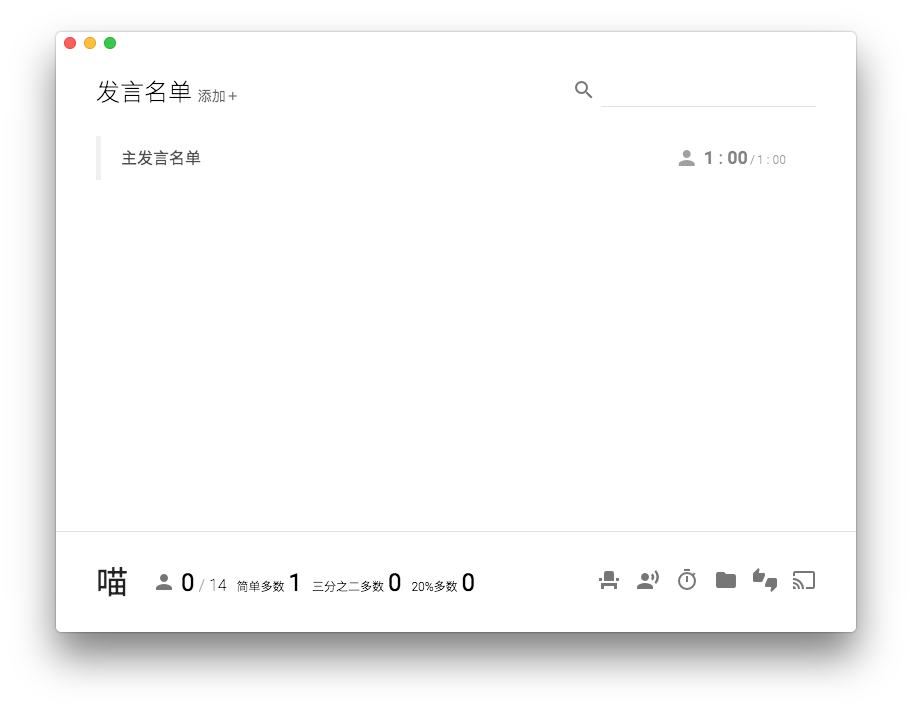
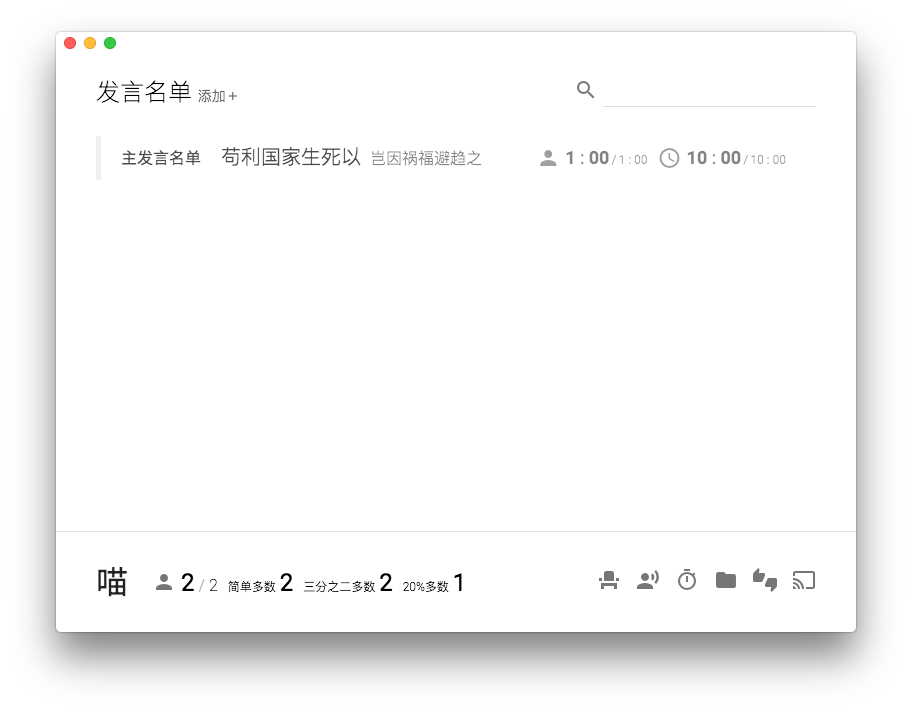
Updated console lite guide to v1.0.1

diff --git a/console-lite/operation.md b/console-lite/operation.md
@@ -79,6 +79,15 @@
 
 在发言名单列表页面，你可以创建新的发言名单。在创建发言名单的过程中，如果总时间留空，意义是不限总时间。推荐的命名方法是：主发言名单命名为“主发言名单”，有组织核心磋商以议题命名。
 
+每一行数据的意义依次是：
+- 发言名单名
+- 当前发言席位
+- 下一个发言席位
+- 当前代表发言时间
+- 发言名单剩余总时间
+
+如果要延长一个有组织核心磋商，推荐直接修改现有发言名单的总时长，这样可以保留之前的发言记录。
+
 创建发言名单后，点击发言名单可以进入名单的响应页面。
 
 ![发言名单页面](list.png)

diff --git a/console-lite/README.md b/console-lite/README.md
@@ -56,7 +56,7 @@ Console Lite 拥有一下<small>十分厉害的</small>的功能：
 
 <div class="down-sec">
   <a href="http://bjmun.org/console-lite/Console-Lite-v1.0.1-win32-x64.7z">
-    <button class="down-btn primary">Windows 64位 (84.75MB)</button>
+    <button class="down-btn primary">Windows 64位 (84.79MB)</button>
   </a>
   <a href="http://bjmun.org/console-lite/Console-Lite-v1.0.1-darwin.zip">
     <button class="down-btn primary">Mac OS X 64位 (140.35MB)</button>
